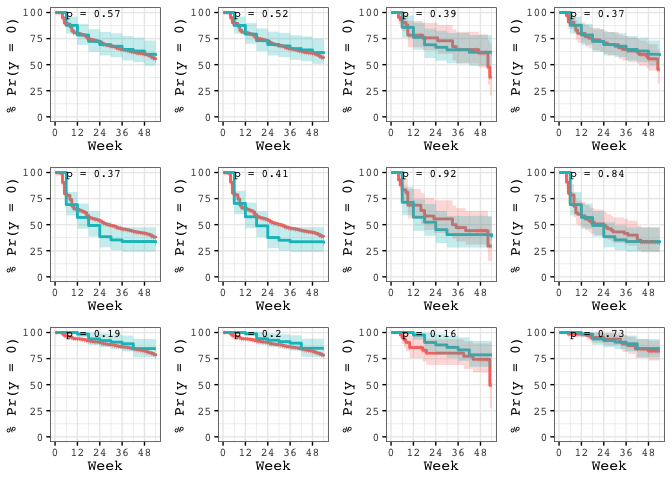
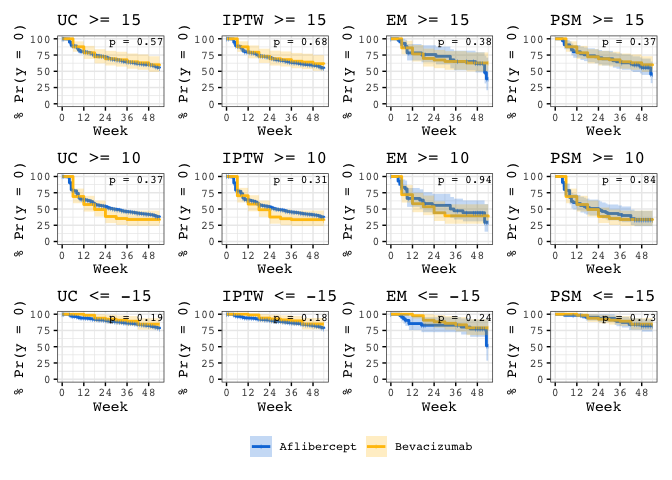
update .md render.

Changed region(s): [[0.0, 0.0, 1.0, 1.0], [0.8125, 0.9062, 0.9688, 1.0], [0.0625, 0.9062, 0.2188, 1.0]]

diff --git a/1_time_to_event/1_survival_analysis.md b/1_time_to_event/1_survival_analysis.md
@@ -1,7 +1,7 @@
 1\_survival\_analysis
 ================
 Darren S Thomas
-06 July, 2020
+07 September, 2020
 
 # read data
 
@@ -59,7 +59,7 @@ psm <- mutate(psm, weights = 1)
 ``` r
 # source fncs
 source("../fnc/survival_wrangle.R")   # joins censorship data to cohorts
-source("../fnc/survival_km.R")        # models a survfit ovbject
+source("../fnc/survival_km.R")        # models a survfit object
 source("../fnc/ggsurvplot_courier.R") # plots kaplan-meiers
 ```
 
@@ -84,9 +84,9 @@ nc.cens <- map2(
 )
 
 names(nc.cens) <- list(
-    '>=15',
-    '>=10',
-    '<=-15')
+    '>= 15',
+    '>= 10',
+    '<= -15')
 ```
 
 ``` r
@@ -102,16 +102,19 @@ nc.kms <- map(
 ```
 
 ``` r
-#
+# 
 
-nc.plots <- map2(
-  .x = nc.kms,
-  .y = nc.cens,
+nc.plots <- pmap(
+  list(
+    nc.kms,
+    nc.cens,
+    names(nc.kms)),
   ~ ggsurvplot_courier(
-    fit = .x,
-    data = .y
+      fit = ..1,
+      data = ..2,
+      title = str_c("UC ", ..3)
+    )
   )
-)
 ```
 
 # iptw
@@ -135,9 +138,9 @@ iptw.cens <- map2(
 )
 
 names(iptw.cens) <- list(
-    '>=15',
-    '>=10',
-    '<=-15')
+    '>= 15',
+    '>= 10',
+    '<= -15')
 ```
 
 ``` r
@@ -155,14 +158,17 @@ iptw.kms <- map(
 ``` r
 #
 
-iptw.plots <- map2(
-  .x = iptw.kms,
-  .y = iptw.cens,
+iptw.plots <- pmap(
+  list(
+    iptw.kms,
+    iptw.cens,
+    names(iptw.kms)),
   ~ ggsurvplot_courier(
-    fit = .x,
-    data = .y
+      fit = ..1,
+      data = ..2,
+      title = str_c("IPTW ", ..3)
+    )
   )
-)
 ```
 
 # em
@@ -186,9 +192,9 @@ em.cens <- map2(
 )
 
 names(em.cens) <- list(
-    '>=15',
-    '>=10',
-    '<=-15')
+    '>= 15',
+    '>= 10',
+    '<= -15')
 ```
 
 ``` r
@@ -206,14 +212,17 @@ em.kms <- map(
 ``` r
 #
 
-em.plots <- map2(
-  .x = em.kms,
-  .y = em.cens,
+em.plots <- pmap(
+  list(
+    em.kms,
+    em.cens,
+    names(em.kms)),
   ~ ggsurvplot_courier(
-    fit = .x,
-    data = .y
+      fit = ..1,
+      data = ..2,
+      title = str_c("EM ", ..3)
+    )
   )
-)
 ```
 
 # psm
@@ -237,9 +246,9 @@ psm.cens <- map2(
 )
 
 names(psm.cens) <- list(
-    '>=15',
-    '>=10',
-    '<=-15')
+    '>= 15',
+    '>= 10',
+    '<= -15')
 ```
 
 ``` r
@@ -257,17 +266,23 @@ psm.kms <- map(
 ``` r
 #
 
-psm.plots <- map2(
-  .x = psm.kms,
-  .y = psm.cens,
+psm.plots <- pmap(
+  list(
+    psm.kms,
+    psm.cens,
+    names(psm.kms)),
   ~ ggsurvplot_courier(
-    fit = .x,
-    data = .y
+      fit = ..1,
+      data = ..2,
+      title = str_c("PSM ", ..3)
+    )
   )
-)
 ```
 
-# combine
+# combine plots
+
+Using `survminer::arrange()` would be the obvious choice, but this way
+does not allow for a common legend:
 
 ``` r
 plots <- c(
@@ -276,26 +291,41 @@ plots <- c(
   em.plots,
   psm.plots
 )
-```
 
-``` r
-# wrap individual elements
-arrange_ggsurvplots(
+arrange_ggsurvplots( 
   plots, 
   print = TRUE,
   ncol = 4,
   nrow = 3)
 ```
 
-![](1_survival_analysis_files/figure-gfm/unnamed-chunk-19-1.png)<!-- -->
+![](1_survival_analysis_files/figure-gfm/unnamed-chunk-18-1.png)<!-- -->
+Thus, a slight convoluted approach is taking using pathwork, which
+requires the $plot obejct to be extracted from each ggsurvplot object.
 
 ``` r
-# save as object
-a <- arrange_ggsurvplots(
-  plots, 
-  print = TRUE,
-  ncol = 4,
-  nrow = 3)
+# extract plot from each ggsurvplot
+
+nc.a <- nc.plots[[">= 15"]][["plot"]]
+nc.b <- nc.plots[[">= 10"]][["plot"]]
+nc.c <- nc.plots[["<= -15"]][["plot"]]
+
+iptw.a <- iptw.plots[[">= 15"]][["plot"]]
+iptw.b <- iptw.plots[[">= 10"]][["plot"]]
+iptw.c <- iptw.plots[["<= -15"]][["plot"]]
+
+em.a <- em.plots[[">= 15"]][["plot"]]
+em.b <- em.plots[[">= 10"]][["plot"]]
+em.c <- em.plots[["<= -15"]][["plot"]]
+
+psm.a <- psm.plots[[">= 15"]][["plot"]]
+psm.b <- psm.plots[[">= 10"]][["plot"]]
+psm.c <- psm.plots[["<= -15"]][["plot"]]
+```
+
+``` r
+(nc.a + iptw.a + em.a + psm.a + nc.b + iptw.b + em.b + psm.b + nc.c + iptw.c + em.c + psm.c)  +
+  plot_layout(guides = "collect")
 ```
 
 ![](1_survival_analysis_files/figure-gfm/unnamed-chunk-20-1.png)<!-- -->
@@ -304,23 +334,23 @@ a <- arrange_ggsurvplots(
 # export as .tiff
 ggsave(
   filename = "fig_4.tiff",
-  plot = a,
+  plot = last_plot(),
   device = "tiff",
   path = "../figs",
-  width = 134,
-  height = 100,
+  width = 178,
+  height = 120,
   units = "mm",
   dpi = 300
 )
 ```
 
-    ## R version 3.6.0 (2019-04-26)
-    ## Platform: x86_64-apple-darwin15.6.0 (64-bit)
+    ## R version 4.0.2 (2020-06-22)
+    ## Platform: x86_64-apple-darwin17.0 (64-bit)
     ## Running under: macOS Mojave 10.14.6
     ## 
     ## Matrix products: default
-    ## BLAS:   /Library/Frameworks/R.framework/Versions/3.6/Resources/lib/libRblas.0.dylib
-    ## LAPACK: /Library/Frameworks/R.framework/Versions/3.6/Resources/lib/libRlapack.dylib
+    ## BLAS:   /Library/Frameworks/R.framework/Versions/4.0/Resources/lib/libRblas.dylib
+    ## LAPACK: /Library/Frameworks/R.framework/Versions/4.0/Resources/lib/libRlapack.dylib
     ## 
     ## locale:
     ## [1] en_GB.UTF-8/en_GB.UTF-8/en_GB.UTF-8/C/en_GB.UTF-8/en_GB.UTF-8
@@ -329,28 +359,28 @@ ggsave(
     ## [1] stats     graphics  grDevices utils     datasets  methods   base     
     ## 
     ## other attached packages:
-    ##  [1] survminer_0.4.7 ggpubr_0.3.0    keyring_1.1.0   forcats_0.5.0  
-    ##  [5] stringr_1.4.0   dplyr_1.0.0     purrr_0.3.4     readr_1.3.1    
-    ##  [9] tidyr_1.1.0     tibble_3.0.1    ggplot2_3.3.1   tidyverse_1.3.0
-    ## [13] survival_3.1-12 patchwork_1.0.0
+    ##  [1] keyring_1.1.0   forcats_0.5.0   stringr_1.4.0   dplyr_1.0.0    
+    ##  [5] purrr_0.3.4     readr_1.3.1     tidyr_1.1.0     tibble_3.0.3   
+    ##  [9] tidyverse_1.3.0 survminer_0.4.8 ggpubr_0.4.0    ggplot2_3.3.2  
+    ## [13] survival_3.2-3  patchwork_1.0.1
     ## 
     ## loaded via a namespace (and not attached):
-    ##  [1] httr_1.4.1        RMySQL_0.10.20    jsonlite_1.7.0    splines_3.6.0    
+    ##  [1] httr_1.4.2        RMySQL_0.10.20    jsonlite_1.7.0    splines_4.0.2    
     ##  [5] carData_3.0-4     modelr_0.1.8      assertthat_0.2.1  blob_1.2.1       
-    ##  [9] cellranger_1.1.0  yaml_2.2.1        pillar_1.4.4      backports_1.1.7  
-    ## [13] lattice_0.20-41   glue_1.4.1        digest_0.6.25     ggsignif_0.6.0   
-    ## [17] rvest_0.3.5       colorspace_1.4-1  htmltools_0.4.0   Matrix_1.2-18    
-    ## [21] pkgconfig_2.0.3   broom_0.5.6       haven_2.3.1       xtable_1.8-4     
+    ##  [9] cellranger_1.1.0  yaml_2.2.1        pillar_1.4.6      backports_1.1.9  
+    ## [13] lattice_0.20-41   glue_1.4.2        digest_0.6.25     ggsignif_0.6.0   
+    ## [17] rvest_0.3.5       colorspace_1.4-1  htmltools_0.5.0   Matrix_1.2-18    
+    ## [21] pkgconfig_2.0.3   broom_0.7.0       haven_2.3.1       xtable_1.8-4     
     ## [25] scales_1.1.1      km.ci_0.5-2       openxlsx_4.1.5    rio_0.5.16       
     ## [29] KMsurv_0.1-5      farver_2.0.3      generics_0.0.2    car_3.0-8        
     ## [33] ellipsis_0.3.1    withr_2.2.0       cli_2.0.2         magrittr_1.5     
-    ## [37] crayon_1.3.4      readxl_1.3.1      evaluate_0.14     fs_1.4.1         
-    ## [41] fansi_0.4.1       nlme_3.1-148      rstatix_0.5.0     xml2_1.3.2       
-    ## [45] foreign_0.8-71    tools_3.6.0       data.table_1.12.8 hms_0.5.3        
-    ## [49] lifecycle_0.2.0   munsell_0.5.0     reprex_0.3.0      zip_2.0.4        
-    ## [53] compiler_3.6.0    rlang_0.4.6       grid_3.6.0        rstudioapi_0.11  
-    ## [57] labeling_0.3      rmarkdown_2.2     gtable_0.3.0      abind_1.4-5      
-    ## [61] DBI_1.1.0         curl_4.3          R6_2.4.1          zoo_1.8-8        
-    ## [65] gridExtra_2.3     lubridate_1.7.9   knitr_1.28        survMisc_0.5.5   
-    ## [69] stringi_1.4.6     Rcpp_1.0.4.6      vctrs_0.3.1       dbplyr_1.4.4     
-    ## [73] tidyselect_1.1.0  xfun_0.14
+    ## [37] crayon_1.3.4      readxl_1.3.1      evaluate_0.14     fs_1.5.0         
+    ## [41] fansi_0.4.1       rstatix_0.6.0     xml2_1.3.2        foreign_0.8-80   
+    ## [45] tools_4.0.2       data.table_1.13.0 hms_0.5.3         lifecycle_0.2.0  
+    ## [49] munsell_0.5.0     reprex_0.3.0      zip_2.0.4         compiler_4.0.2   
+    ## [53] rlang_0.4.7       grid_4.0.2        rstudioapi_0.11   labeling_0.3     
+    ## [57] rmarkdown_2.3     gtable_0.3.0      abind_1.4-5       DBI_1.1.0        
+    ## [61] curl_4.3          R6_2.4.1          gridExtra_2.3     zoo_1.8-8        
+    ## [65] lubridate_1.7.9   knitr_1.29        survMisc_0.5.5    stringi_1.4.6    
+    ## [69] Rcpp_1.0.5        vctrs_0.3.4       dbplyr_1.4.4      tidyselect_1.1.0 
+    ## [73] xfun_0.15
